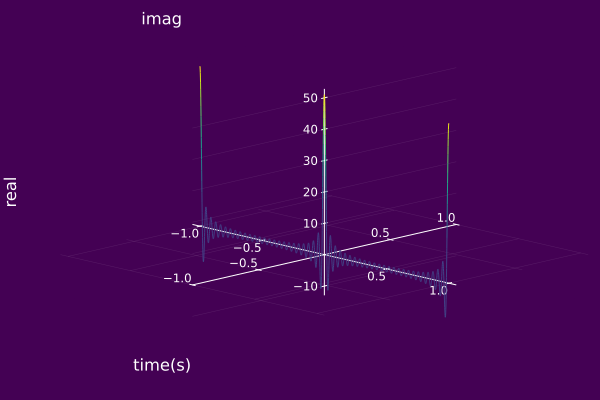
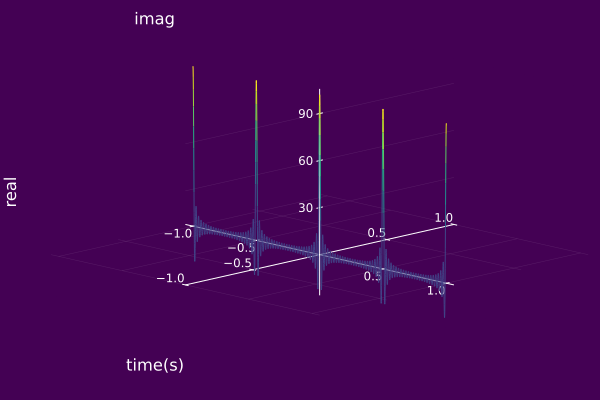
Fourier Series

diff --git a/docs/src/basicModels/Fourier.md b/docs/src/basicModels/Fourier.md
@@ -13,8 +13,8 @@ The AM--FM model corresponding to a partial sum (over $k$) of a Fourier series c
 
 ```julia
 using ISA, Plots
-T = 1.0
-aₖ(k) = 1.0
+T = 0.5
+aₖ(k) = 1/T
 kInds = -25:25
 𝑆 = fourierSeries(T, aₖ, kInds)
 z = AMFMmodel(𝑆)
@@ -35,8 +35,8 @@ can also be visualized.
 
 ```julia
 using ISA, Plots
-T = 1.0
-aₖ(k) = 1.0
+T = 0.5
+aₖ(k) = 1/T
 kInds = -25:25
 𝑆 = fourierSeries(T, aₖ, kInds)
 z = AMFMmodel(𝑆)
@@ -46,8 +46,8 @@ plot(𝑆; timeaxis=-1.0:0.001:1.0)
 
 ```julia
 using ISA, Plots
-T = 1.0
-aₖ(k) = 1.0
+T = 0.5
+aₖ(k) = 1/T
 kInds = -25:25
 𝑆 = fourierSeries(T, aₖ, kInds)
 z = AMFMmodel(𝑆)
@@ -58,3 +58,53 @@ plot!( camera=(0,90),
        yrotation = 90, ymirror=true)
 ```
 ![](https://raw.githubusercontent.com/NMSU-ISA/ISA/master/docs/src/assets/IS_exFourier3.png)
+
+
+For another choice of parameters of the component set, we have the following Argand Diagram, 3D IS $\mathcal{S}(t,\omega,s;\mathscr{S})$, and 2D IS $\mathcal{S}(t,\omega;\mathscr{S})$.
+
+```julia
+using ISA, Plots
+T = 0.5
+aₖ(k) = ifelse( k==0, 1/2, sin(k*π/2)/(k*π) )
+kInds = -25:25
+𝑆 = fourierSeries(T, aₖ, kInds)
+z = AMFMmodel(𝑆)
+plot(𝑆; timeaxis=-1.0:0.001:1.0)
+plot!( camera=(0,90),
+       zlabel="", zticks=:false,
+       left_margin=15Plots.mm, margin=5Plots.mm,
+       yrotation = 90, ymirror=true)
+```
+![](https://raw.githubusercontent.com/NMSU-ISA/ISA/master/docs/src/assets/IS_exFourier4.png)
+
+
+```julia
+using ISA, Plots
+T = 0.5
+aₖ(k) = ifelse( k==0, 1/2, sin(k*π/2)/(k*π) )
+kInds = -25:25
+𝑆 = fourierSeries(T, aₖ, kInds)
+z = AMFMmodel(𝑆)
+plot(𝑆; timeaxis=-1.0:0.001:1.0)
+plot!( camera=(0,90),
+       zlabel="", zticks=:false,
+       left_margin=15Plots.mm, margin=5Plots.mm,
+       yrotation = 90, ymirror=true)
+```
+![](https://raw.githubusercontent.com/NMSU-ISA/ISA/master/docs/src/assets/IS_exFourier5.png)
+
+
+```julia
+using ISA, Plots
+T = 0.5
+aₖ(k) = ifelse( k==0, 1/2, sin(k*π/2)/(k*π) )
+kInds = -25:25
+𝑆 = fourierSeries(T, aₖ, kInds)
+z = AMFMmodel(𝑆)
+plot(𝑆; timeaxis=-1.0:0.001:1.0)
+plot!( camera=(0,90),
+       zlabel="", zticks=:false,
+       left_margin=15Plots.mm, margin=5Plots.mm,
+       yrotation = 90, ymirror=true)
+```
+![](https://raw.githubusercontent.com/NMSU-ISA/ISA/master/docs/src/assets/IS_exFourier6.png)
